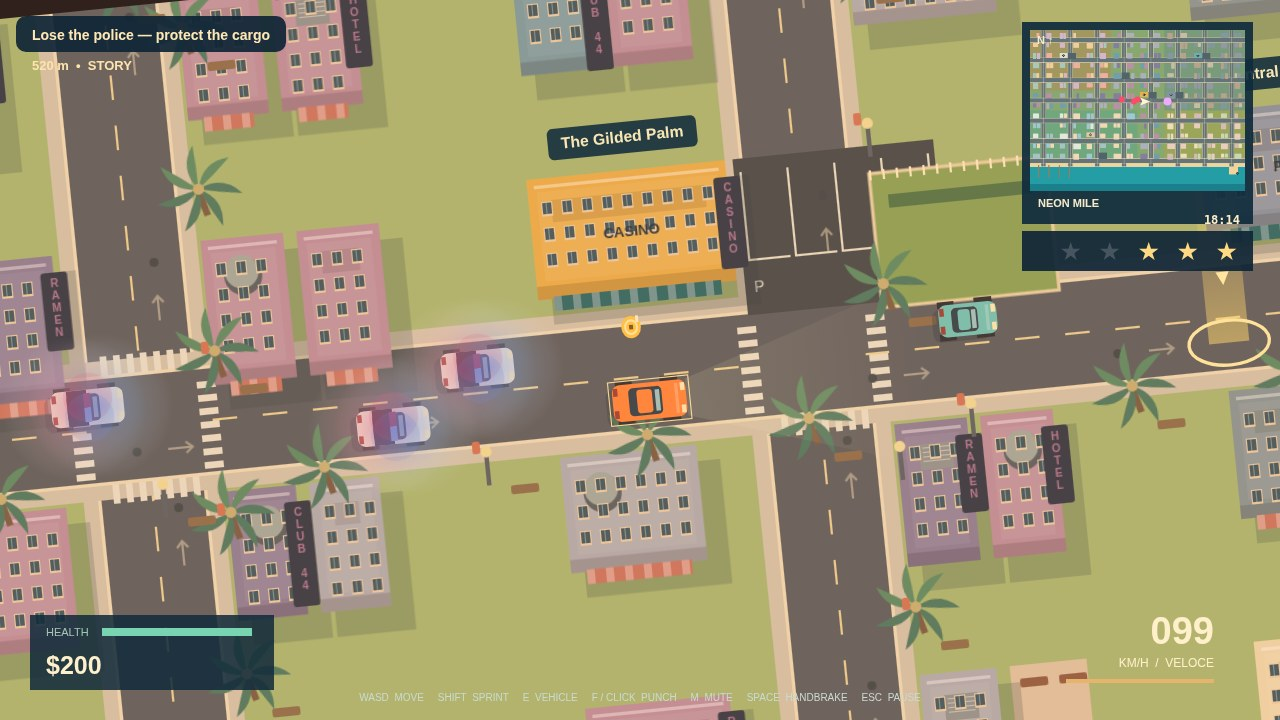
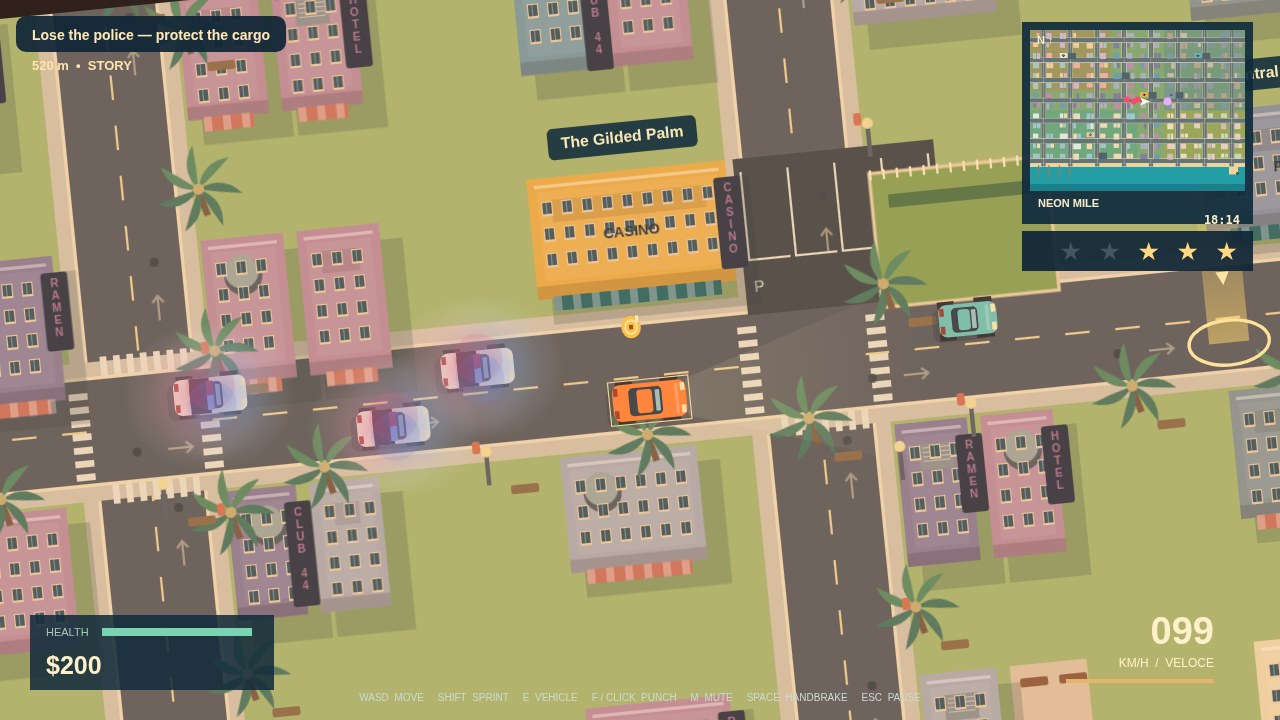
Round 3 optimization: casino-lot exit chokepoint fix, momentum-conserving car collisions, screenshot polish
- Casino parking lot (2645,1390) now spawns only the east column: the seed-dependent west-column compact no longer narrows the GILDED SCORE exit channel (58 -> 104-106 units across probed seeds).
- Car-car collision response exchanges normal velocity components (restitution 0.25) instead of multiplying both speeds by -0.22: a fast car now shoves a slow/stopped car instead of being zeroed by any touch; damage/impact formulas unchanged.
- Screenshot scenes: cover third police sedan fully in frame; mission scene zoom 1.0 with oncoming taxi and 4 staged pedestrians for density.

Changed region(s): [[0.0312, 0.4583, 0.2188, 0.6417]]

diff --git a/game/src/entities.js b/game/src/entities.js
@@ -5,7 +5,7 @@ export function createPlayer(world){return {...world.spawn,angle:0,vx:0,vy:0,hea
 export function createCar(type,x,y,angle=0,rng=mulberry32(1)){return {type,taxi:type==='taxi',...CAR_TYPES[type],x,y,angle,color:pick(rng,CAR_TYPES[type].colors),speed:0,vx:0,vy:0,steer:0,damage:0,locked:false,traffic:false,braking:false,stop:0,intersection:'',radius:20};}
 export function populateCars(world){const rng=mulberry32(world.seed+91),cars=[],types=Object.keys(CAR_TYPES);
  const place=c=>{const radius=Math.hypot(c.w,c.h)/2;if(circleHitsWorld(world,c.x,c.y,radius)||cars.some(other=>Math.hypot(other.x-c.x,other.y-c.y)<Math.max(64,radius+Math.hypot(other.w,other.h)/2)))return false;cars.push(c);return true;};
- for(const lot of world.parkingLots)for(const x of [lot.x+25,lot.x+115])for(const y of [lot.y+30,lot.y+110])place(createCar(pick(rng,types),x,y,0,rng));
+ for(const lot of world.parkingLots)for(const x of lot.x===2645&&lot.y===1390?[lot.x+115]:[lot.x+25,lot.x+115])for(const y of [lot.y+30,lot.y+110])place(createCar(pick(rng,types),x,y,0,rng));
  for(let i=0;i<30;i++)place(createCar(pick(rng,types),300+(i%8)*600+80,330+Math.floor(i/8)*450,0,rng));
  for(let i=0,placed=0;i<140&&placed<14;i++){const c=createCar(pick(rng,types),300+Math.floor(rng()*8)*600+21,range(rng,100,2900),0,rng);if(!trafficRoadPoint(world,c.x,c.y))continue;c.traffic=true;c.cruise=range(rng,95,155);if(place(c))placed++;}return cars;
 }
@@ -49,7 +49,7 @@ export function updateCars(cars,player,input,world,dt){
   if(moveWithSlide(world,c,c.vx*dt,c.vy*dt,Math.max(c.w/2,22))){world.onCrash?.(c,null,Math.abs(c.speed));c.damage=Math.min(100,c.damage+Math.abs(c.speed)*.025);c.speed*=-.3;c.vx*=-.25;c.vy*=-.25;}
   movement[i]=dt>0?Math.hypot(c.x-startX,c.y-startY)/dt:0;
  }
- for(let i=0;i<cars.length;i++)for(let j=i+1;j<cars.length;j++){const a=cars[i],b=cars[j],dx=b.x-a.x,dy=b.y-a.y,d=Math.hypot(dx,dy),r=(a.h+b.h)*.37;if(d>0&&d<r){const nx=dx/d,ny=dy/d,p=(r-d)/2;moveWithSlide(world,a,-nx*p,-ny*p,22);moveWithSlide(world,b,nx*p,ny*p,22);const impact=Math.hypot(a.vx-b.vx,a.vy-b.vy);if(impact>35){world.onCrash?.(a,b,impact);a.damage=Math.min(100,a.damage+impact*.012);b.damage=Math.min(100,b.damage+impact*.012);}a.speed*=-.22;b.speed*=-.22;}}
+ for(let i=0;i<cars.length;i++)for(let j=i+1;j<cars.length;j++){const a=cars[i],b=cars[j],dx=b.x-a.x,dy=b.y-a.y,d=Math.hypot(dx,dy),r=(a.h+b.h)*.37;if(d>0&&d<r){const nx=dx/d,ny=dy/d,p=(r-d)/2;moveWithSlide(world,a,-nx*p,-ny*p,22);moveWithSlide(world,b,nx*p,ny*p,22);const impact=Math.hypot(a.vx-b.vx,a.vy-b.vy);if(impact>35){world.onCrash?.(a,b,impact);a.damage=Math.min(100,a.damage+impact*.012);b.damage=Math.min(100,b.damage+impact*.012);}const avn=a.vx*nx+a.vy*ny,bvn=b.vx*nx+b.vy*ny,rel=avn-bvn;if(rel>0){let imp=rel*.625;a.vx-=imp*nx;a.vy-=imp*ny;b.vx+=imp*nx;b.vy+=imp*ny;a.speed=a.vx*Math.sin(a.angle)-a.vy*Math.cos(a.angle);b.speed=b.vx*Math.sin(b.angle)-b.vy*Math.cos(b.angle);}else{a.speed*=-.22;b.speed*=-.22;}}}
  // Collision separation can move a stalled car without it making progress under power.
  for(let i=cars.length-1;i>=0;i--){const c=cars[i];if(c===player.car||(!c.traffic&&!c.police))continue;const distance=Math.hypot(c.x-player.x,c.y-player.y),intendsToMove=c.traffic||!c.pursuing||distance>110,speed=Math.min(movement[i],Math.abs(c.speed));c.stuckTime=intendsToMove&&speed<8?(c.stuckTime||0)+dt:0;if(c.stuckTime>=(c.pursuing?2.5:3)){if(c.traffic)cars.splice(i,1);else if(c.recover?.())c.stuckTime=0;}}
 

diff --git a/game/src/shots.js b/game/src/shots.js
@@ -11,11 +11,12 @@ export function stageShot(name,state,player,cars,camera,g){
  state.timeOfDay=.76;drive(pose('sports',2550,1597,'Neon Avenue (y=1575)',{color:'#ff863e',speed:380}));
  pose('sedan',2400,1553,'Neon Avenue (y=1575)',{police:true,pursuing:true,color:'#eee9dc',speed:370});
  pose('sedan',2320,1597,'Neon Avenue (y=1575)',{police:true,pursuing:true,color:'#eee9dc',speed:370});
- pose('sedan',2050,1553,'Neon Avenue (y=1575)',{police:true,pursuing:true,color:'#eee9dc',speed:365});
+ pose('sedan',2160,1553,'Neon Avenue (y=1575)',{police:true,pursuing:true,color:'#eee9dc',speed:365});
  pose('compact',2840,1553,'Neon Avenue (y=1575)',{color:'#69c9c1',speed:200});
  Object.assign(g.wanted,{level:3,heat:105,state:'pursuit'});state.target={x:3070,y:1597};state.objective='Lose the police — protect the cargo';state.missionActive=true;Object.assign(camera,{x:2545,y:1560,zoom:1.12,rotation:-.10});
  }else if(name==='mission'){
- drive(pose('sports',4020,2497,'Palm Heights Boulevard (y=2475)',{color:'#f48357',speed:240}));pose('sedan',4440,2453,'Palm Heights Boulevard (y=2475)',{speed:150});state.target={x:4270,y:2475};state.missionActive=true;state.objective='PACKAGE RUN — Deliver to the Palm Heights villa';Object.assign(g.missions,{current:'package-run',nextMission:1,objectiveIndex:1,timer:118,maxTimer:150,dialogue:[{who:'DELIA',text:"Keep moving, Jax. The villa is waiting. Don't bring company."}]});Object.assign(camera,{x:4100,y:2470,zoom:.95});
+ drive(pose('sports',4020,2497,'Palm Heights Boulevard (y=2475)',{color:'#f48357',speed:240}));pose('sedan',4440,2453,'Palm Heights Boulevard (y=2475)',{speed:150});pose('taxi',3650,2453,'Palm Heights Boulevard (y=2475)',{speed:150});state.target={x:4270,y:2475};state.missionActive=true;state.objective='PACKAGE RUN — Deliver to the Palm Heights villa';Object.assign(g.missions,{current:'package-run',nextMission:1,objectiveIndex:1,timer:118,maxTimer:150,dialogue:[{who:'DELIA',text:"Keep moving, Jax. The villa is waiting. Don't bring company."}]});Object.assign(camera,{x:4100,y:2470,zoom:1.0});
+ for(let i=0;i<4;i++)g.peds.push({x:[3900,4050,4350,4520][i],y:i%2?2535:2545,angle:i%2?-Math.PI/2:Math.PI/2,walk:i,shirt:['#f7bd65','#8ad5c1','#e98691','#b2a2de'][i%4],down:0});
  }else if(name==='foot'){
  player.car=null;Object.assign(player,{x:4380,y:2980,angle:Math.PI/2});pose('taxi',4240,2947,'Marina Drive (y=2925)',{speed:150});pose('compact',4600,2903,'Marina Drive (y=2925)',{speed:140});
  for(let i=0;i<8;i++)g.peds.push({x:4110+i*65,y:2982+i%2*22,angle:i%2?Math.PI/2:-Math.PI/2,walk:i,shirt:['#f7bd65','#8ad5c1','#e98691','#b2a2de'][i%4],down:0});state.objective='Marina boardwalk • A little paradise';Object.assign(camera,{x:4140,y:2980,zoom:1});
